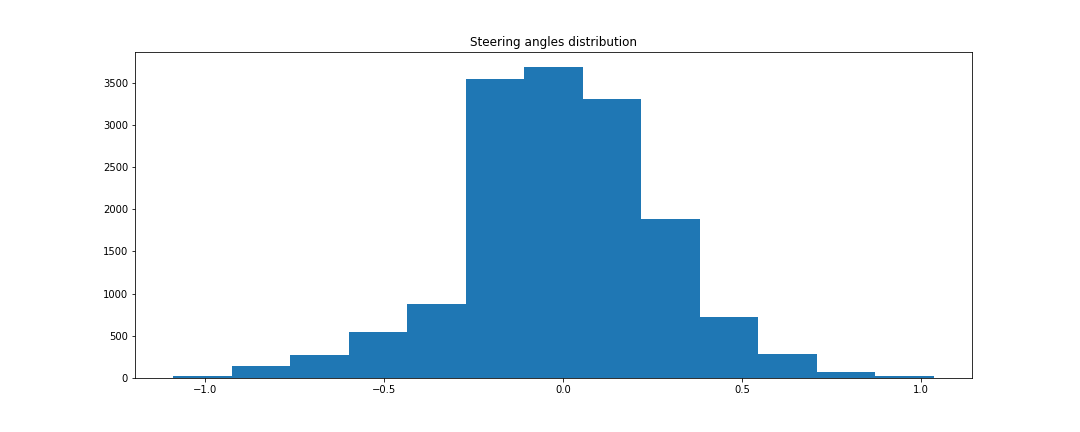
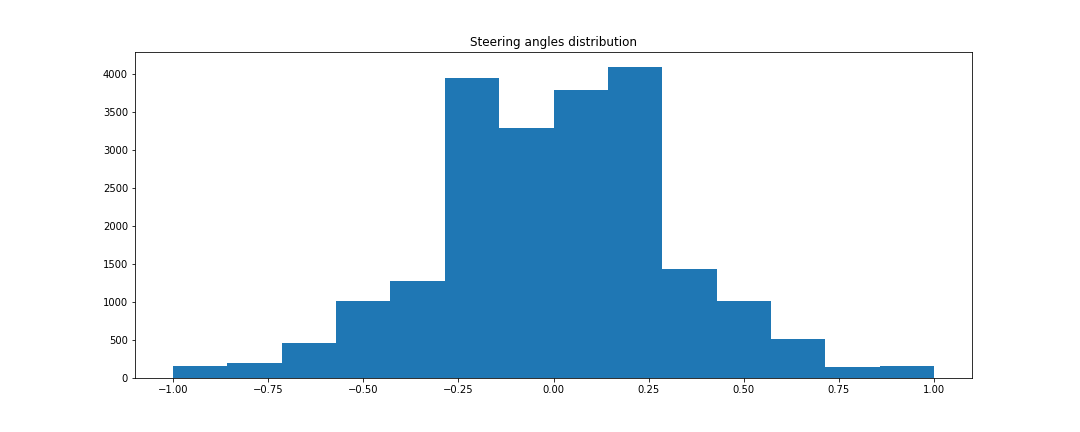
Clips steering angles to correct range

diff --git a/data_loader.py b/data_loader.py
@@ -6,13 +6,14 @@ import pickle
 from image_processor import process_image
 from sklearn.utils import shuffle
 from tqdm import tqdm
+import matplotlib.pyplot as plt
 
 class DataLoader():
 
     def __init__(self, train_file, log_file, img_folder, 
                  angle_correction = 0.2, 
                  path_separator = '\\',
-                 flip_min_angle = 0.25):
+                 flip_min_angle = 0.0):
         self.train_file = train_file
         self.log_file = log_file
         self.img_folder = img_folder
@@ -31,7 +32,7 @@ class DataLoader():
         
         return images, measurements
     
-    def generator(self, images, measurements, batch_size = 128):
+    def generator(self, images, measurements, batch_size = 64):
         
         num_samples = len(images)
         
@@ -47,6 +48,15 @@ class DataLoader():
                 Y_batch = measurements_batch[:,0] # Takes the steering angle only, for now
                 
                 yield X_batch, Y_batch
+
+    def plot_distribution(self, data, title, save_path = None, bins = 21, show = True):
+        plt.figure(figsize = (15, 6))
+        plt.hist(data, bins = bins)
+        plt.title(title)
+        if save_path:
+            plt.savefig(save_path)
+        if show:
+            plt.show()
 
     def _load_image(self, image_file):
         img = cv2.imread(os.path.join(self.img_folder, image_file))
@@ -92,6 +102,8 @@ class DataLoader():
         # Right image
         images.append(right_img)
         measurements.append((steering_angle - self.angle_correction, throttle, break_force))
+        # Clips the angles to the right interval (-1, 1)
+        measurements = np.clip(measurements, a_min = -1.0, a_max = 1.0)
 
         return images, measurements
 

diff --git a/model.py b/model.py
@@ -76,7 +76,6 @@ def plot_history(model_name, history):
     
     train_log = history.history['loss']
     valid_log = history.history['val_loss']
-    print(history.history)
     
     train_loss = train_log[-1]
     valid_loss = valid_log[-1]
